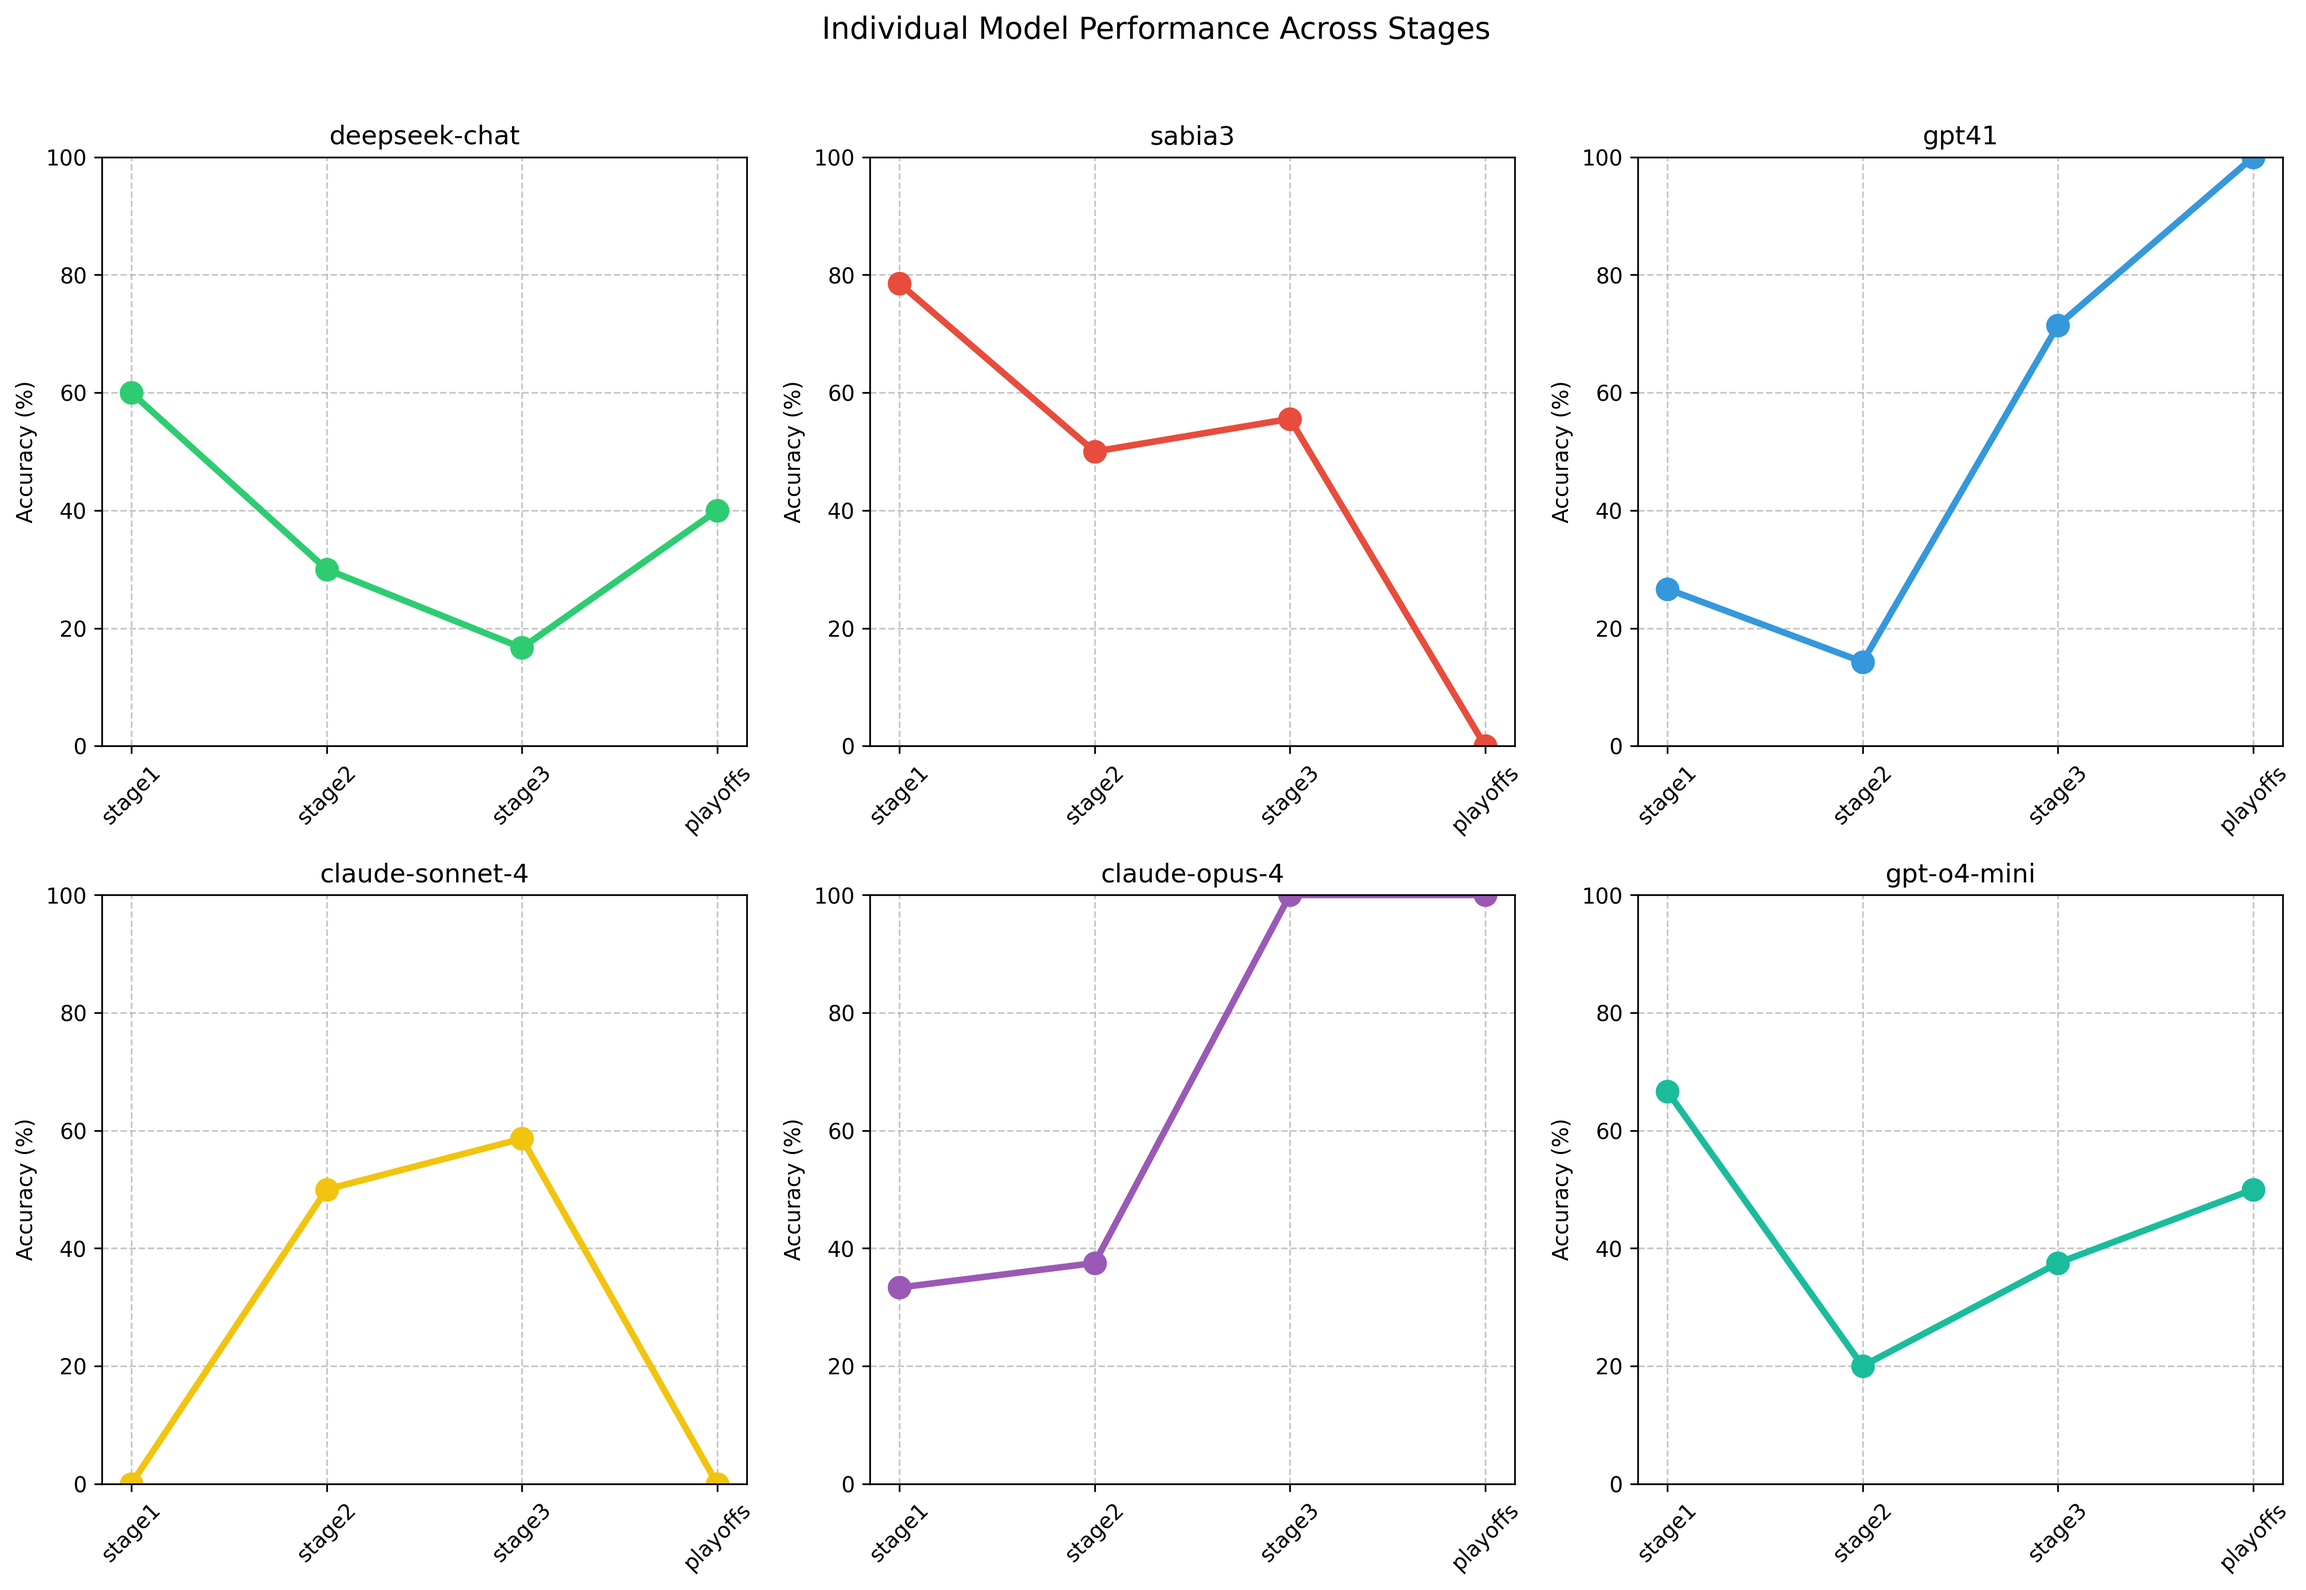
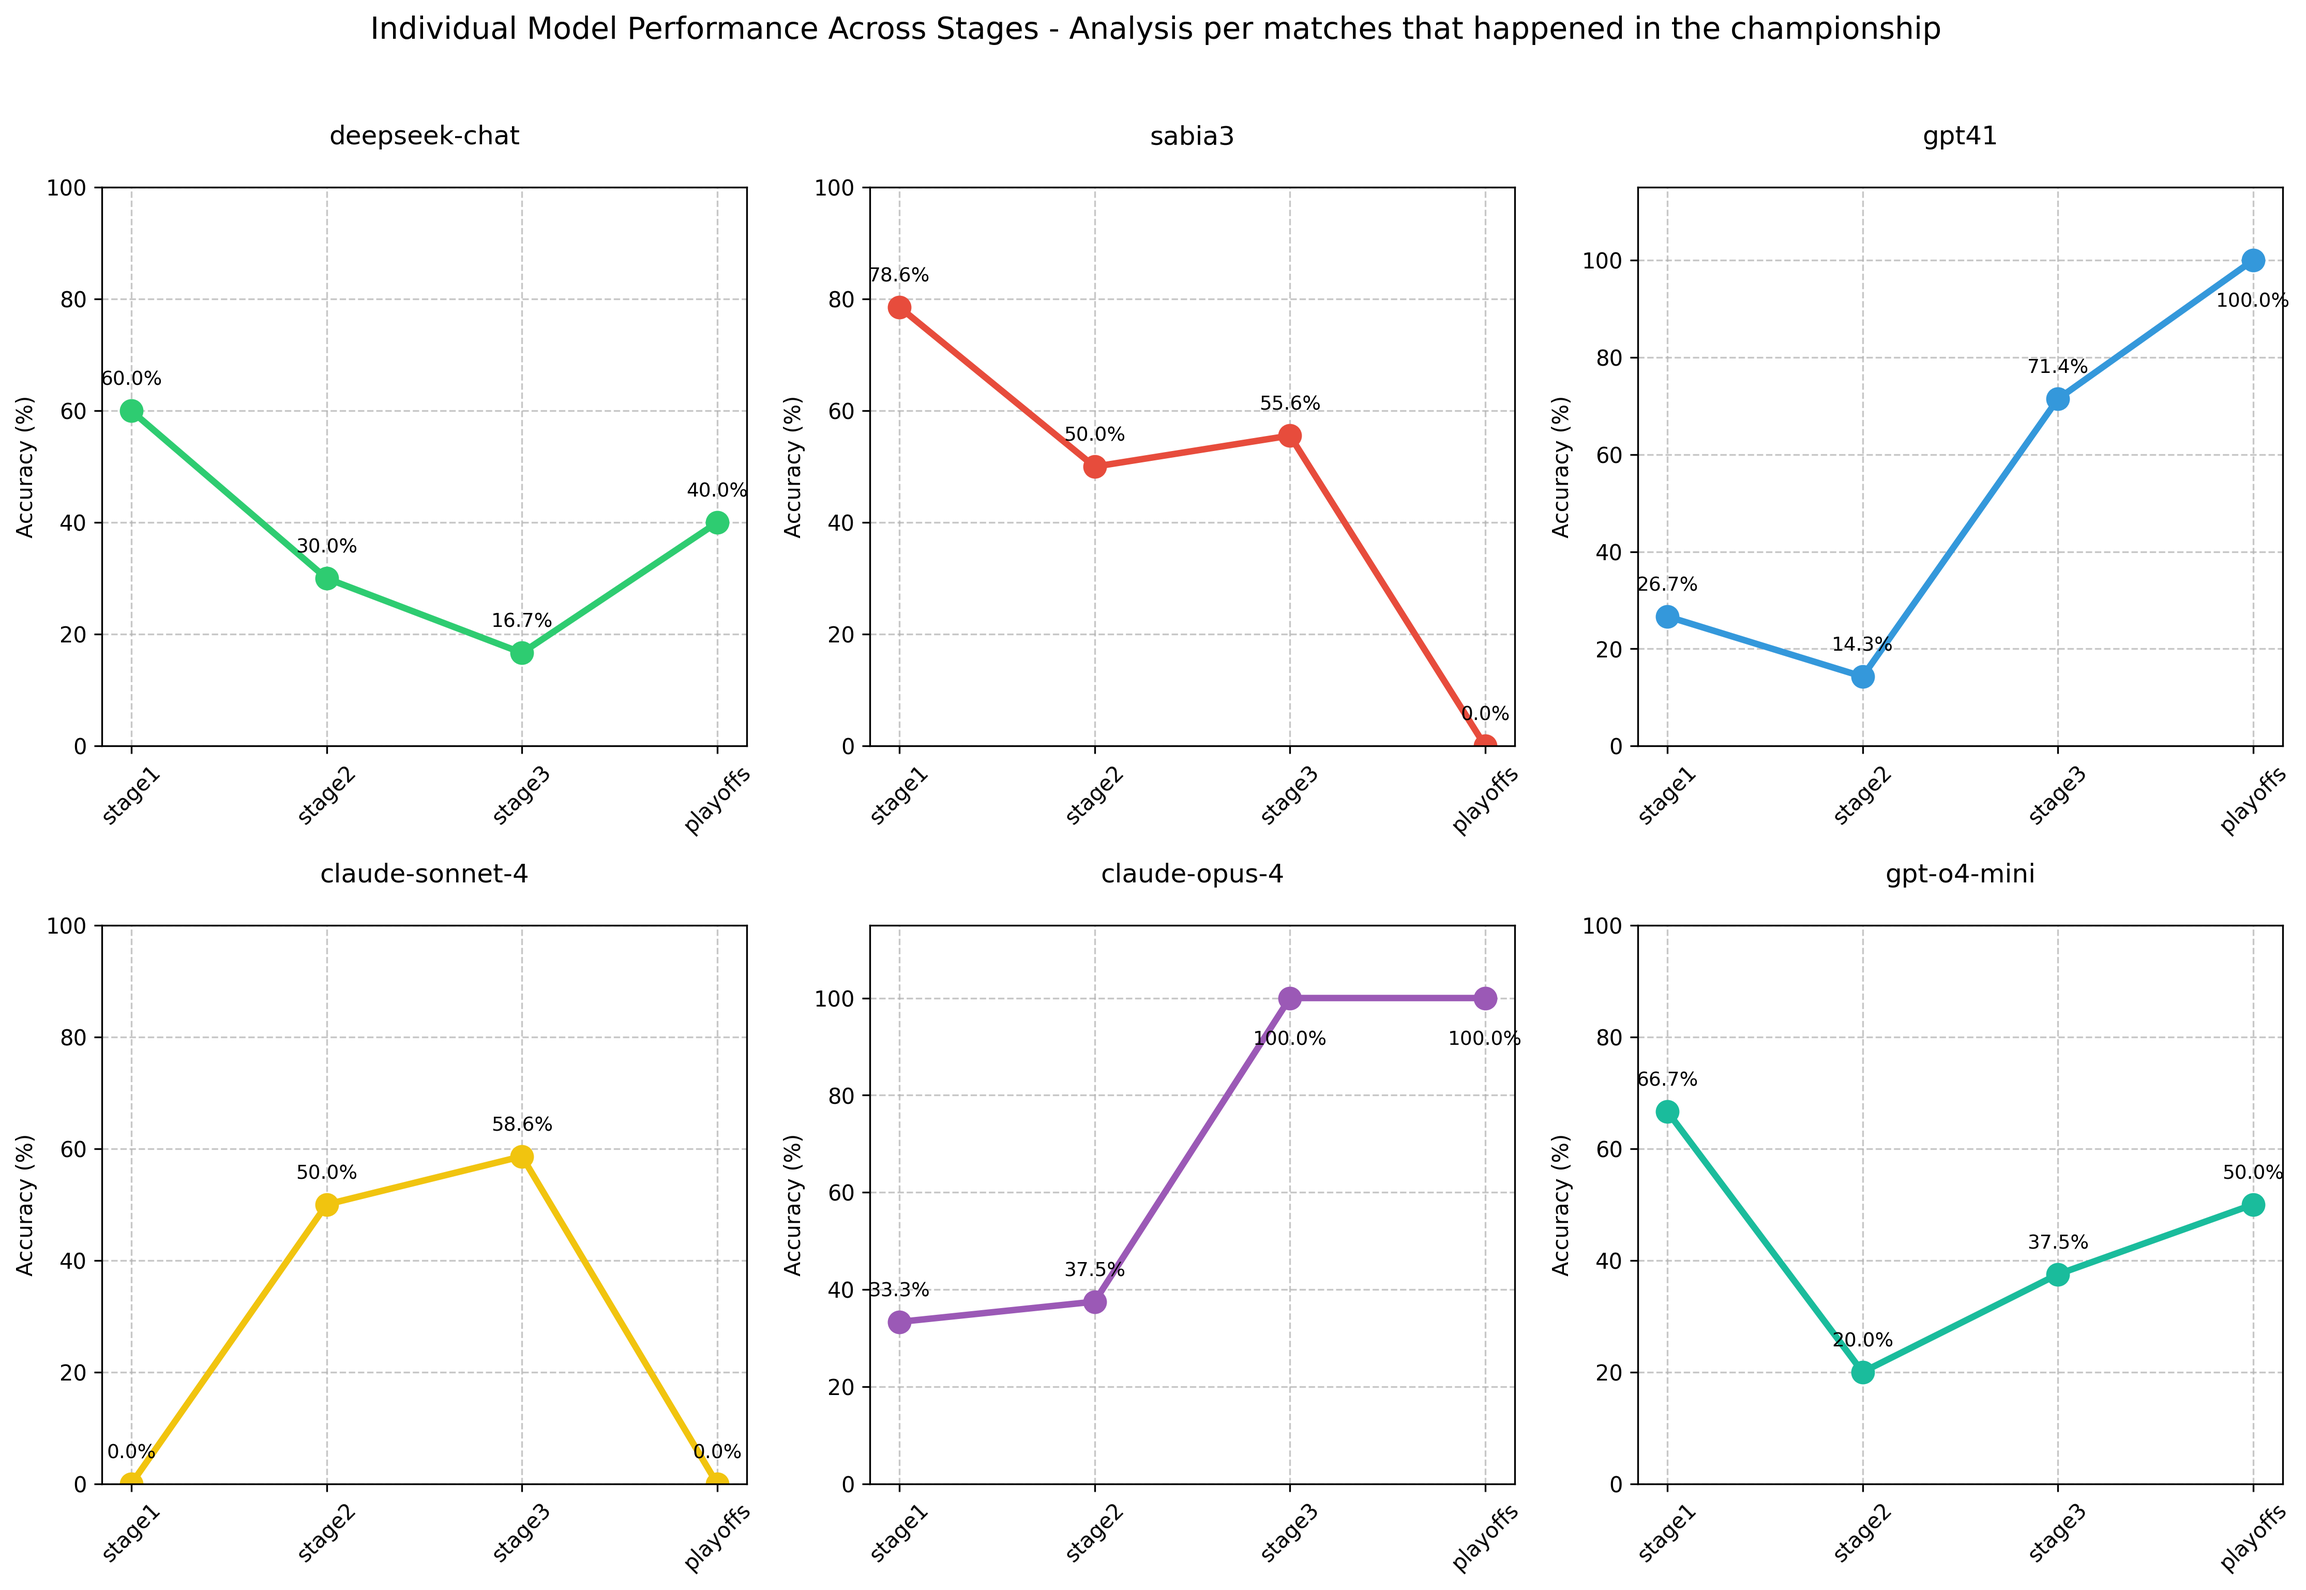
chore: making the charts look greater

diff --git a/results/analysis/analysis-per-match.md b/results/analysis/analysis-per-match.md
@@ -3,7 +3,7 @@
 ## deepseek-chat
 
 ### stage1
-Accuracy: 27.27% (9/33 matches)
+Accuracy: 60.00% (9/15 matches)
 
 Correct Predictions:
 - TYLOO vs Complexity
@@ -25,7 +25,7 @@ Wrong Predictions:
 - Imperial vs Nemiga (actual: Nemiga)
 
 ### stage2
-Accuracy: 9.09% (3/33 matches)
+Accuracy: 30.00% (3/10 matches)
 
 Correct Predictions:
 - HEROIC vs TYLOO
@@ -42,7 +42,7 @@ Wrong Predictions:
 - Falcons vs B8 (actual: B8)
 
 ### stage3
-Accuracy: 3.03% (1/33 matches)
+Accuracy: 16.67% (1/6 matches)
 
 Correct Predictions:
 - The MongolZ vs G2
@@ -55,7 +55,7 @@ Wrong Predictions:
 - G2 vs 3DMAX (actual: 3DMAX)
 
 ### playoffs
-Accuracy: 10.53% (4/38 matches)
+Accuracy: 40.00% (4/10 matches)
 
 Correct Predictions:
 - MOUZ vs Aurora
@@ -76,7 +76,7 @@ Wrong Predictions:
 ## sabia3
 
 ### stage1
-Accuracy: 33.33% (11/33 matches)
+Accuracy: 78.57% (11/14 matches)
 
 Correct Predictions:
 - FlyQuest vs Fluxo
@@ -97,7 +97,7 @@ Wrong Predictions:
 - BetBoom vs FlyQuest (actual: FlyQuest)
 
 ### stage2
-Accuracy: 15.15% (5/33 matches)
+Accuracy: 50.00% (5/10 matches)
 
 Correct Predictions:
 - TYLOO vs M80
@@ -114,7 +114,7 @@ Wrong Predictions:
 - Complexity vs TYLOO (actual: TYLOO)
 
 ### stage3
-Accuracy: 15.15% (5/33 matches)
+Accuracy: 55.56% (5/9 matches)
 
 Correct Predictions:
 - HEROIC vs TYLOO
@@ -137,7 +137,7 @@ Accuracy: 0.00% (0/0 matches)
 ## gpt41
 
 ### stage1
-Accuracy: 12.12% (4/33 matches)
+Accuracy: 26.67% (4/15 matches)
 
 Correct Predictions:
 - B8 vs Imperial
@@ -159,7 +159,7 @@ Wrong Predictions:
 - Lynn Vision vs Nemiga (actual: Nemiga)
 
 ### stage2
-Accuracy: 3.03% (1/33 matches)
+Accuracy: 14.29% (1/7 matches)
 
 Correct Predictions:
 - NRG vs Complexity
@@ -173,7 +173,7 @@ Wrong Predictions:
 - TYLOO vs FAZE (actual: FAZE)
 
 ### stage3
-Accuracy: 15.15% (5/33 matches)
+Accuracy: 71.43% (5/7 matches)
 
 Correct Predictions:
 - G2 vs Aurora
@@ -187,7 +187,7 @@ Wrong Predictions:
 - FAZE vs Aurora (actual: Aurora)
 
 ### playoffs
-Accuracy: 14.29% (1/7 matches)
+Accuracy: 100.00% (1/1 matches)
 
 Correct Predictions:
 - Spirit vs Natus Vincere
@@ -200,7 +200,7 @@ Correct Predictions:
 Accuracy: 0.00% (0/0 matches)
 
 ### stage2
-Accuracy: 16.92% (11/65 matches)
+Accuracy: 50.00% (11/22 matches)
 
 Correct Predictions:
 - HEROIC vs TYLOO
@@ -229,7 +229,7 @@ Wrong Predictions:
 - Imperial vs Nemiga (actual: Nemiga)
 
 ### stage3
-Accuracy: 17.53% (17/97 matches)
+Accuracy: 58.62% (17/29 matches)
 
 Correct Predictions:
 - HEROIC vs TYLOO
@@ -265,7 +265,7 @@ Wrong Predictions:
 - Imperial vs Nemiga (actual: Nemiga)
 
 ### playoffs
-Accuracy: 0.00% (0/7 matches)
+Accuracy: 0.00% (0/2 matches)
 
 Wrong Predictions:
 - Vitality vs Legacy (actual: Legacy)
@@ -276,7 +276,7 @@ Wrong Predictions:
 ## claude-opus-4
 
 ### stage1
-Accuracy: 11.76% (4/34 matches)
+Accuracy: 33.33% (4/12 matches)
 
 Correct Predictions:
 - HEROIC vs Chinggis Warriors
@@ -295,7 +295,7 @@ Wrong Predictions:
 - Lynn Vision vs Nemiga (actual: Nemiga)
 
 ### stage2
-Accuracy: 9.38% (3/32 matches)
+Accuracy: 37.50% (3/8 matches)
 
 Correct Predictions:
 - Legacy vs 3DMAX
@@ -310,7 +310,7 @@ Wrong Predictions:
 - paiN vs Virtus.pro (actual: Virtus.pro)
 
 ### stage3
-Accuracy: 12.12% (4/33 matches)
+Accuracy: 100.00% (4/4 matches)
 
 Correct Predictions:
 - HEROIC vs TYLOO
@@ -319,7 +319,7 @@ Correct Predictions:
 - Legacy vs Imperial
 
 ### playoffs
-Accuracy: 28.57% (2/7 matches)
+Accuracy: 100.00% (2/2 matches)
 
 Correct Predictions:
 - Vitality vs MOUZ
@@ -327,26 +327,10 @@ Correct Predictions:
 
 ---
 
-## stats
-
-### stage1
-Accuracy: 0.00% (0/0 matches)
-
-### stage2
-Accuracy: 0.00% (0/0 matches)
-
-### stage3
-Accuracy: 0.00% (0/0 matches)
-
-### playoffs
-Accuracy: 0.00% (0/0 matches)
-
----
-
 ## gpt-o4-mini
 
 ### stage1
-Accuracy: 24.24% (8/33 matches)
+Accuracy: 66.67% (8/12 matches)
 
 Correct Predictions:
 - HEROIC vs Chinggis Warriors
@@ -365,7 +349,7 @@ Wrong Predictions:
 - Nemiga vs BetBoom (actual: BetBoom)
 
 ### stage2
-Accuracy: 3.03% (1/33 matches)
+Accuracy: 20.00% (1/5 matches)
 
 Correct Predictions:
 - NRG vs TYLOO
@@ -377,7 +361,7 @@ Wrong Predictions:
 - HEROIC vs B8 (actual: B8)
 
 ### stage3
-Accuracy: 9.09% (3/33 matches)
+Accuracy: 37.50% (3/8 matches)
 
 Correct Predictions:
 - Vitality vs 3DMAX
@@ -392,7 +376,7 @@ Wrong Predictions:
 - NRG vs HEROIC (actual: HEROIC)
 
 ### playoffs
-Accuracy: 13.51% (5/37 matches)
+Accuracy: 50.00% (5/10 matches)
 
 Correct Predictions:
 - Natus Vincere vs G2
